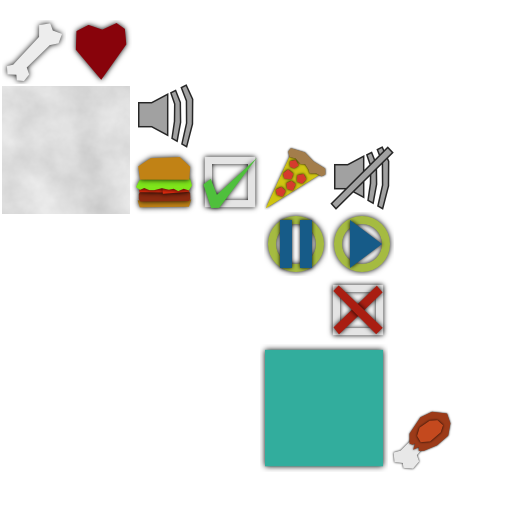
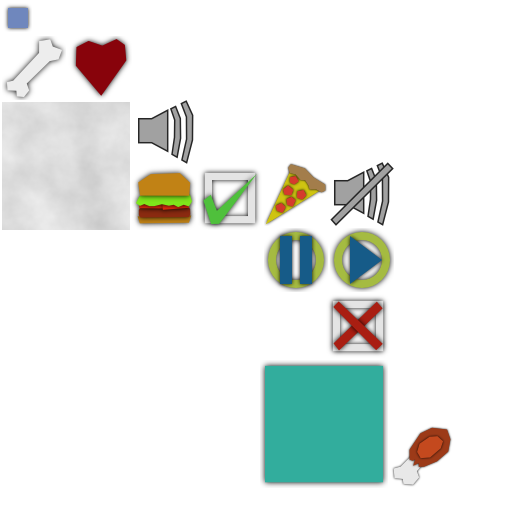
testing Stage2D

Changed region(s): [[0.0, 0.0, 0.7812, 0.7188], [0.5, 0.7812, 0.9062, 0.9688]]

diff --git a/DodgeGame/src/walnoot/dodgegame/states/StageState.java b/DodgeGame/src/walnoot/dodgegame/states/StageState.java
@@ -1,0 +1,106 @@
+package walnoot.dodgegame.states;
+
+import walnoot.dodgegame.DodgeGame;
+import walnoot.dodgegame.Util;
+
+import com.badlogic.gdx.Gdx;
+import com.badlogic.gdx.graphics.Color;
+import com.badlogic.gdx.graphics.OrthographicCamera;
+import com.badlogic.gdx.graphics.g2d.BitmapFont;
+import com.badlogic.gdx.graphics.g2d.NinePatch;
+import com.badlogic.gdx.graphics.g2d.SpriteBatch;
+import com.badlogic.gdx.scenes.scene2d.Stage;
+import com.badlogic.gdx.scenes.scene2d.ui.CheckBox;
+import com.badlogic.gdx.scenes.scene2d.ui.CheckBox.CheckBoxStyle;
+import com.badlogic.gdx.scenes.scene2d.ui.Label;
+import com.badlogic.gdx.scenes.scene2d.ui.Label.LabelStyle;
+import com.badlogic.gdx.scenes.scene2d.ui.Slider;
+import com.badlogic.gdx.scenes.scene2d.ui.Slider.SliderStyle;
+import com.badlogic.gdx.scenes.scene2d.ui.TextField;
+import com.badlogic.gdx.scenes.scene2d.ui.TextField.TextFieldStyle;
+import com.badlogic.gdx.scenes.scene2d.ui.tablelayout.Table;
+
+public class StageState extends State{
+	public static final float UI_SCALE = 640f;
+	
+	private Stage stage;
+	private Table table;
+	
+	public StageState(OrthographicCamera camera){
+		super(camera);
+		
+		setupStage();
+	}
+	
+	private void setupStage(){
+		float width = Gdx.graphics.getWidth();
+		float height = Gdx.graphics.getHeight();
+		float minDimension = Math.min(width, height);
+		
+		stage = new Stage(width / minDimension * UI_SCALE, height / minDimension * UI_SCALE, false);
+		
+		System.out.printf("%f, %f", stage.width(), stage.height());
+		
+		DodgeGame.inputs.addProcessor(stage);
+		
+		table = new Table();
+		table.right();
+		table.y = stage.height() / 2;
+		table.x = stage.width();
+		
+		stage.addActor(table);
+		
+		BitmapFont font = new BitmapFont(Gdx.files.internal("komika_axis.fnt"), Util.FONT, false);
+		//font.setScale(Gdx.graphics.getHeight() / 640f);
+		LabelStyle labelStyle = new LabelStyle(font, Color.BLACK);
+		
+		table.add(new Label("COMBO:", labelStyle)).left();
+		table.add(new Label("15X", labelStyle)).left();
+		table.row();
+		table.add(new Label("SCORE:", labelStyle)).left();
+		table.add(new Label("14235", labelStyle)).left();
+		table.row();
+		
+		table.add(new CheckBox("KSDJF", new CheckBoxStyle(Util.ICON_FALSE, Util.ICON_TRUE, font, Color.BLACK)))
+				.colspan(2);
+		table.row();
+		
+		NinePatch sliderPatch = new NinePatch(Util.SLIDER, 15, 15, 15, 15);
+		Slider slider = new Slider(0f, 1f, 1f, new SliderStyle(sliderPatch, Util.DOT));
+		table.add(slider).colspan(2).width(400);
+		table.row();
+		
+		table.add(
+				new TextField("DASGF", new TextFieldStyle(font, Color.BLACK, font, Color.BLACK, sliderPatch, Util.DOT,
+						sliderPatch))).colspan(2).fill();
+		
+		table.debug();
+	}
+	
+	public void update(){
+		stage.act(DodgeGame.SECONDS_PER_UPDATE);
+	}
+	
+	public void render(SpriteBatch batch){
+	}
+	
+	public void renderUI(){
+		stage.draw();
+		Table.drawDebug(stage);
+	}
+	
+	public void resize(){
+		float width = Gdx.graphics.getWidth();
+		float height = Gdx.graphics.getHeight();
+		float minDimension = Math.min(width, height);
+		
+		stage.setViewport(width / minDimension * UI_SCALE, height / minDimension * UI_SCALE, false);
+		
+		table.y = stage.height() / 2;
+		table.x = stage.width();
+	}
+	
+	public void dispose(){
+		
+	}
+}

diff --git a/DodgeGame/src/walnoot/dodgegame/DodgeGame.java b/DodgeGame/src/walnoot/dodgegame/DodgeGame.java
@@ -7,6 +7,7 @@ import aurelienribon.tweenengine.TweenManager;
 
 import com.badlogic.gdx.ApplicationListener;
 import com.badlogic.gdx.Gdx;
+import com.badlogic.gdx.InputMultiplexer;
 import com.badlogic.gdx.Preferences;
 import com.badlogic.gdx.graphics.GL10;
 import com.badlogic.gdx.graphics.OrthographicCamera;
@@ -28,15 +29,16 @@ public class DodgeGame implements ApplicationListener{
 	
 	public static State state;
 	public static int gameTime;
+	public static InputMultiplexer inputs;
 	
 	private OrthographicCamera camera;
 	private SpriteBatch batch;
 	private float updateTimer;
 	private Sprite backgroundSprite;
-	private boolean paused;
 	
 	public void create(){
-		Gdx.input.setInputProcessor(INPUT);
+		inputs = new InputMultiplexer(INPUT);
+		Gdx.input.setInputProcessor(inputs);
 		
 		camera = new OrthographicCamera();
 		camera.zoom = GameState.MAP_SIZE;
@@ -86,13 +88,15 @@ public class DodgeGame implements ApplicationListener{
 		state.render(batch);
 		if(PARTICLE_HANDLER.isLoaded()) PARTICLE_HANDLER.render(batch);
 		
-		if(FONT != null){
+		/*if(FONT != null){
 			FONT.setColor(1, 0, 0, 1);
 			FONT.draw(batch, "FPS: " + (int) Gdx.graphics.getFramesPerSecond(),
 					-camera.viewportWidth * camera.zoom / 2f, camera.viewportHeight * camera.zoom / 2f);
-		}
+		}*/
 		
 		batch.end();
+		
+		state.renderUI();
 	}
 	
 	public void update(){
@@ -100,7 +104,7 @@ public class DodgeGame implements ApplicationListener{
 		if(INPUT.fullscreen.isJustPressed()) Gdx.graphics.setDisplayMode(1920, 1080, true);//for recording, change later
 			
 		state.update();
-		if(!paused && SOUND_MANAGER.isLoaded()) SOUND_MANAGER.update();
+		if(SOUND_MANAGER.isLoaded()) SOUND_MANAGER.update();
 		if(PARTICLE_HANDLER.isLoaded()) PARTICLE_HANDLER.update();
 		INPUT.update();
 		if(TWEEN_MANAGER != null) TWEEN_MANAGER.update(SECONDS_PER_UPDATE);
@@ -135,12 +139,9 @@ public class DodgeGame implements ApplicationListener{
 	}
 	
 	public void pause(){
-		paused = true;
-		
 		state.pause();
 	}
 	
 	public void resume(){
-		paused = false;
 	}
 }

diff --git a/DodgeGame/src/walnoot/dodgegame/InputHandler.java b/DodgeGame/src/walnoot/dodgegame/InputHandler.java
@@ -79,7 +79,7 @@ public class InputHandler implements InputProcessor{
 		
 		keyDown = true;
 		
-		return true;
+		return false;
 	}
 	
 	public boolean keyUp(int keyCode){
@@ -87,34 +87,34 @@ public class InputHandler implements InputProcessor{
 			if(keys.get(i).has(keyCode)) keys.get(i).release();
 		}
 		
-		return true;
+		return false;
 	}
 	
 	public boolean keyTyped(char character){
-		return true;
+		return false;
 	}
 	
 	public boolean touchDown(int x, int y, int pointer, int button){
 		if(button == Buttons.LEFT) justTouched = true;
-		return true;
+		return false;
 	}
 	
 	public boolean touchUp(int x, int y, int pointer, int button){
-		return true;
+		return false;
 	}
 	
 	public boolean touchDragged(int x, int y, int pointer){
-		return true;
+		return false;
 	}
 	
 	public boolean touchMoved(int x, int y){
-		return true;
+		return false;
 	}
 	
 	public boolean scrolled(int amount){
 		scrollAmount += amount;
 		
-		return true;
+		return false;
 	}
 	
 	public class Key{

diff --git a/DodgeGame/src/walnoot/dodgegame/Util.java b/DodgeGame/src/walnoot/dodgegame/Util.java
@@ -23,6 +23,7 @@ public class Util{
 	public static TextureRegion SHINE;
 	public static TextureRegion PAUSE;
 	public static TextureRegion RESUME;
+	public static TextureRegion SLIDER;
 	
 	public static ParticleEffect SHINE_EFFECT;
 	
@@ -49,6 +50,7 @@ public class Util{
 		SHINE = ATLAS.findRegion("shine");
 		PAUSE = ATLAS.findRegion("pause");
 		RESUME = ATLAS.findRegion("resume");
+		SLIDER = ATLAS.findRegion("slider");
 		
 		SHINE_EFFECT = getShineEffect();
 	}

diff --git a/DodgeGame-desktop/src/walnoot/dodgegame/Main.java b/DodgeGame-desktop/src/walnoot/dodgegame/Main.java
@@ -8,8 +8,8 @@ public class Main{
 		LwjglApplicationConfiguration cfg = new LwjglApplicationConfiguration();
 		cfg.title = "DodgeGame";
 		cfg.useGL20 = false;
-		cfg.width = 480;
-		cfg.height = 320;
+		cfg.width = 960;
+		cfg.height = 640;
 		cfg.vSyncEnabled = false;
 		
 		new LwjglApplication(new DodgeGame(), cfg);

diff --git a/DodgeGame/src/walnoot/dodgegame/states/LoadingState.java b/DodgeGame/src/walnoot/dodgegame/states/LoadingState.java
@@ -76,7 +76,8 @@ public class LoadingState extends State{
 				
 				break;
 			default:
-				DodgeGame.setState(new MainMenuState(camera));
+				//DodgeGame.setState(new MainMenuState(camera));
+				DodgeGame.setState(new StageState(camera));
 				
 				break;
 		}

diff --git a/DodgeGame/src/walnoot/dodgegame/states/State.java b/DodgeGame/src/walnoot/dodgegame/states/State.java
@@ -15,6 +15,8 @@ public abstract class State{
 	
 	public abstract void render(SpriteBatch batch);
 	
+	public void renderUI(){}
+	
 	public abstract void dispose();
 	
 	/**
